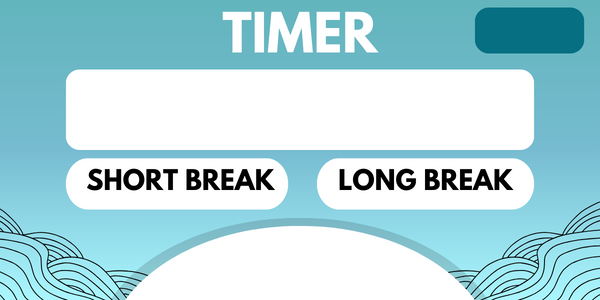
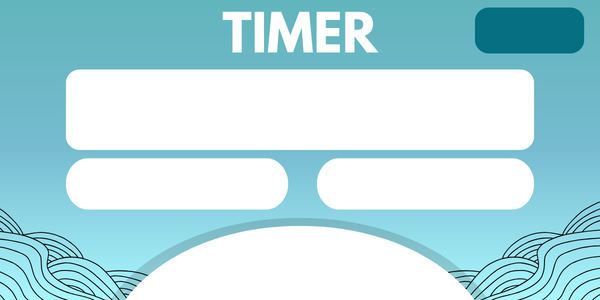
break mode adjusted

Changed region(s): [[0.15, 0.54, 0.45, 0.66], [0.54, 0.54, 0.87, 0.63]]

diff --git a/pomodoro.py b/pomodoro.py
@@ -2,6 +2,7 @@
 from tkinter import *
 import pygame
 from tkinter import font
+from playsound import playsound
 import time
 from tkinter import messagebox
 
@@ -17,7 +18,7 @@ root.configure(bg='red')
 root.iconbitmap(r'./images/pomodoroIcon.ico')
 canvas = Canvas()
 root.resizable(False, False)
-pygame.mixer.init()
+
 
 #consts
 red='#d04e2f'
@@ -50,28 +51,17 @@ Label(root,text='SEC', bg='white').place(x='470',y='120')
 sec.set("00")
 
 
+cycle =1
 current_time=None
+breaktime=NO
 
-def timer():
-    global time_run
-    global current_time
-    total_time = int(hrs.get()) * 3600 + int(mins.get()) * 60 + int(sec.get())
-    
-    if total_time > 0:
-        
-        total_time -= 1
-        hrs.set(str(total_time // 3600).zfill(1))
-        mins.set(str((total_time % 3600) // 60).zfill(1))
-        sec.set(str(total_time % 60).zfill(1))
-        current_time= root.after(1000, timer) #starts countdown
-    
-    else:
-        pygame.mixer.music.play(beep)
 
 
 def start_timer():
     global time_run
+    global cycle
     time_run=True
+    cycle=+1
     timer()
    
 def pause_timer():
@@ -102,6 +92,56 @@ def pause_timer():
     no_button.place(x='160', y='140')
     
     
+
+def break_mode():
+    print('hellow world')
+    global bg_timer
+    bg_timer=PhotoImage(file=r'BREAK.png')
+    bg.config(image=bg_timer)
+    workabutton.destroy()
+    workbbutton.destroy()
+    workcbutton.destroy()
+    break_noti.destroy()
+    
+
+
+def timer():
+    global time_run
+    global current_time
+    total_time = int(hrs.get()) * 3600 + int(mins.get()) * 60 + int(sec.get())
+    
+    if total_time > 0:
+        
+        total_time -= 1
+        hrs.set(str(total_time // 3600).zfill(1))
+        mins.set(str((total_time % 3600) // 60).zfill(1))
+        sec.set(str(total_time % 60).zfill(1))
+        current_time= root.after(1000, timer) #starts countdown
+        
+
+    
+    else:
+        global break_noti
+        global break_notiimg
+        global breaktime
+        breaktime=YES
+
+        break_notiimg=PhotoImage(file=r'C:\Users\USER\Projects\Meowstermind\BREAK_NOTI.png')
+        break_noti = Toplevel()
+        break_noti.title(f'Break Time!')
+        break_noti.geometry('500x300')
+        break_noti.resizable(False,False)
+        break_noti.iconbitmap(r'./images/break_icon.ico')
+        break_notibg=Label(break_noti,image=break_notiimg)
+        break_notibg.pack()        
+        break_continue=Button(break_noti, text='Proceed', font=('arial 18 bold'), bg='white', bd=0)
+        break_continue.place(x='450', y='350')
+        break_continuebutton=Button(break_noti, text='PROCEED', font=('calibri 12 bold'), bg='white', bd=1, command=break_mode)
+        break_continuebutton.place(x='400', y='250')
+
+global break_continuebutton
+
+
   
    
    
@@ -111,6 +151,12 @@ def stop_timer():
     hrs.set('00')
     mins.set('00')
     sec.set('00')
+
+
+
+
+
+
 
 #play, pause and stop buttons
 starticon=PhotoImage(file=r'C:\Users\USER\Projects\Meowstermind\images\start.png')
@@ -157,24 +203,6 @@ def long_break():
     mins.set("15")
     sec.set("00")
     
-
-def break_mode():
-    print('hellow world')
-    global bg_timer
-    bg_timer=PhotoImage(file=r'BREAK.png')
-    bg.config(image=bg_timer)
-    workabutton.destroy()
-    workbbutton.destroy()
-    workcbutton.destroy()
-    short_break=Button(root, text='SHORT BREAK', bg='white', font='comfortaa 18 bold', borderwidth=0, command=short_break).place(x='50', y='160')
-    long_break=Button(root, text='LONG BREAK', bg='white', font='comfortaa 18 bold', borderwidth=0, command=long_break).place(x='150', y='160')
-  
-    
-        
-    
-#break button
-break_button=Button(root, text='BREAK', font=('comfortaa 15 bold'), bg='#BD1A1A', fg='white', bd=0, command=break_mode).place(x='485', y='12')
-
 
 
 root.mainloop()
